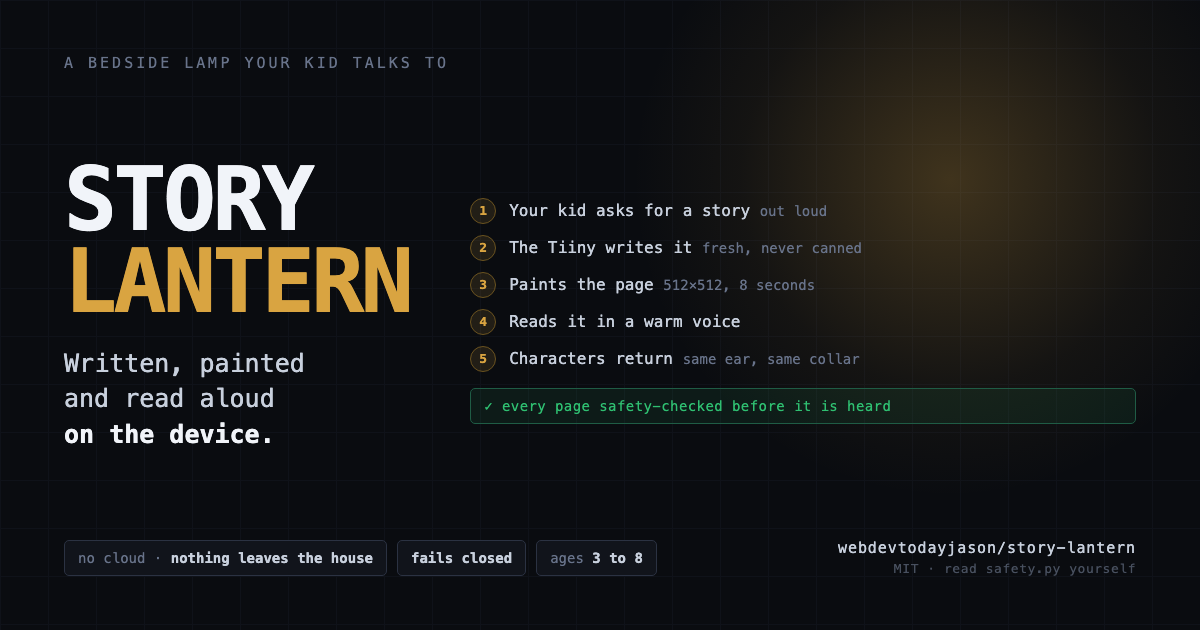
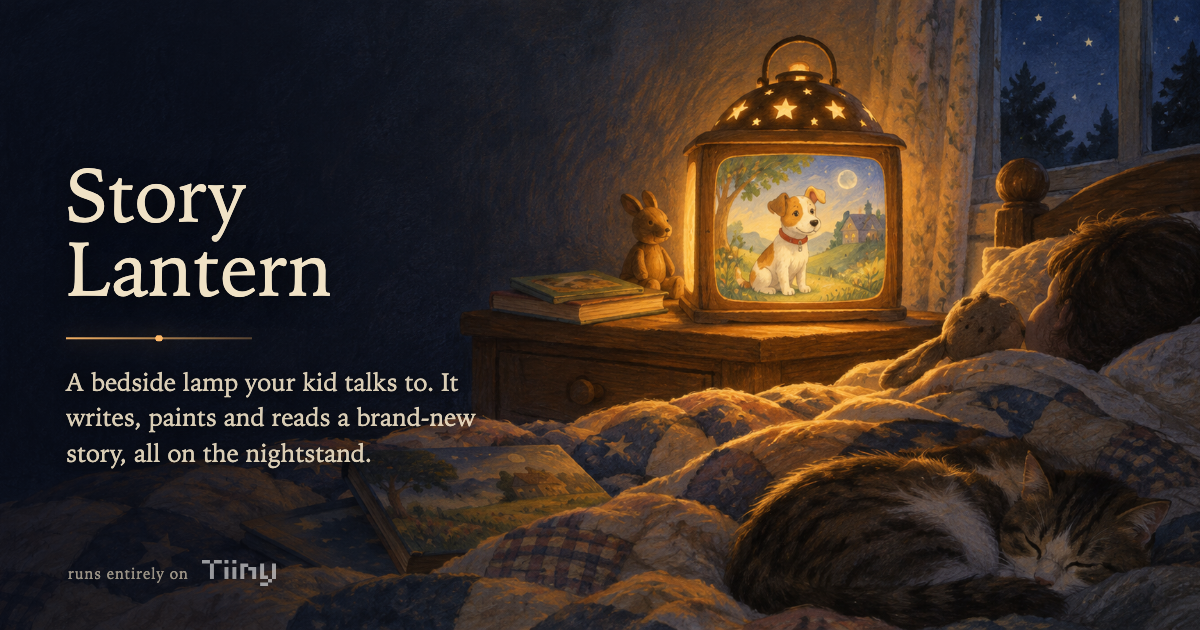
Share card: the wordmark set into Jason's illustration
The card was a generated placeholder. This is the real illustration, with the
type in the dark wall it was composed to leave empty, and the Tiiny mark at the
foot. art/og-card.html is the source, so it can be re-rendered rather than
redrawn.

diff --git a/art/og-card.html b/art/og-card.html
@@ -1,0 +1,41 @@
+<!-- The share card. Render it back to og.png with:
+     chrome --headless --allow-file-access-from-files --window-size=1200,630 \
+            --screenshot=../og.png art/og-card.html
+     Illustration by Jason; the empty left third of it is deliberate. -->
+<!doctype html><meta charset=utf-8>
+<style>
+  :root{ --cream:#f0e2c6; --amber:#ffb968; --amber-deep:#d9782a;
+         --serif:"Iowan Old Style","Palatino Linotype",Palatino,Georgia,serif; }
+  *{margin:0;padding:0;box-sizing:border-box}
+  body{width:1200px;height:630px;overflow:hidden;position:relative;background:#0d1020}
+  #art{position:absolute;inset:0;width:100%;height:100%;object-fit:cover;object-position:52% 50%}
+  /* A touch more darkness on the left so type has something to sit on, feathered
+     out well before it reaches the lantern. */
+  #scrim{position:absolute;inset:0;
+    background:linear-gradient(95deg, rgba(6,9,20,.72) 0%, rgba(6,9,20,.52) 22%,
+               rgba(6,9,20,.18) 38%, transparent 52%)}
+  #type{position:absolute;left:66px;top:50%;transform:translateY(-50%);width:430px;
+    font-family:var(--serif);color:var(--cream)}
+  h1{font-weight:400;font-size:76px;line-height:.98;letter-spacing:.004em;
+     text-shadow:0 3px 26px rgba(0,0,0,.75)}
+  h1 span{display:block}
+  .rule{width:186px;height:6px;margin:28px 0 24px;
+    background-image:
+      radial-gradient(circle, var(--amber) 0 3.4px, transparent 4px),
+      linear-gradient(90deg, rgba(255,185,104,.95), rgba(255,185,104,.30));
+    background-size:100% 100%, 100% 2px;
+    background-position:center, center; background-repeat:no-repeat;
+    filter:drop-shadow(0 0 10px rgba(255,160,60,.45))}
+  p{font-size:25px;line-height:1.42;opacity:.9;text-shadow:0 2px 14px rgba(0,0,0,.8)}
+  #foot{position:absolute;left:68px;bottom:44px;display:flex;align-items:center;gap:13px;
+    font-family:var(--serif);color:var(--cream);opacity:.62;font-size:15px;letter-spacing:.06em}
+  #foot img{width:74px;display:block;opacity:.92}
+</style>
+<img id="art" src="hero.png" alt="">
+<div id="scrim"></div>
+<div id="type">
+  <h1><span>Story</span><span>Lantern</span></h1>
+  <div class="rule"></div>
+  <p>A bedside lamp your kid talks to. It writes, paints and reads a brand-new story, all on the nightstand.</p>
+</div>
+<div id="foot">runs entirely on <img src="../static/tiiny-logo.svg" alt="Tiiny"></div>
